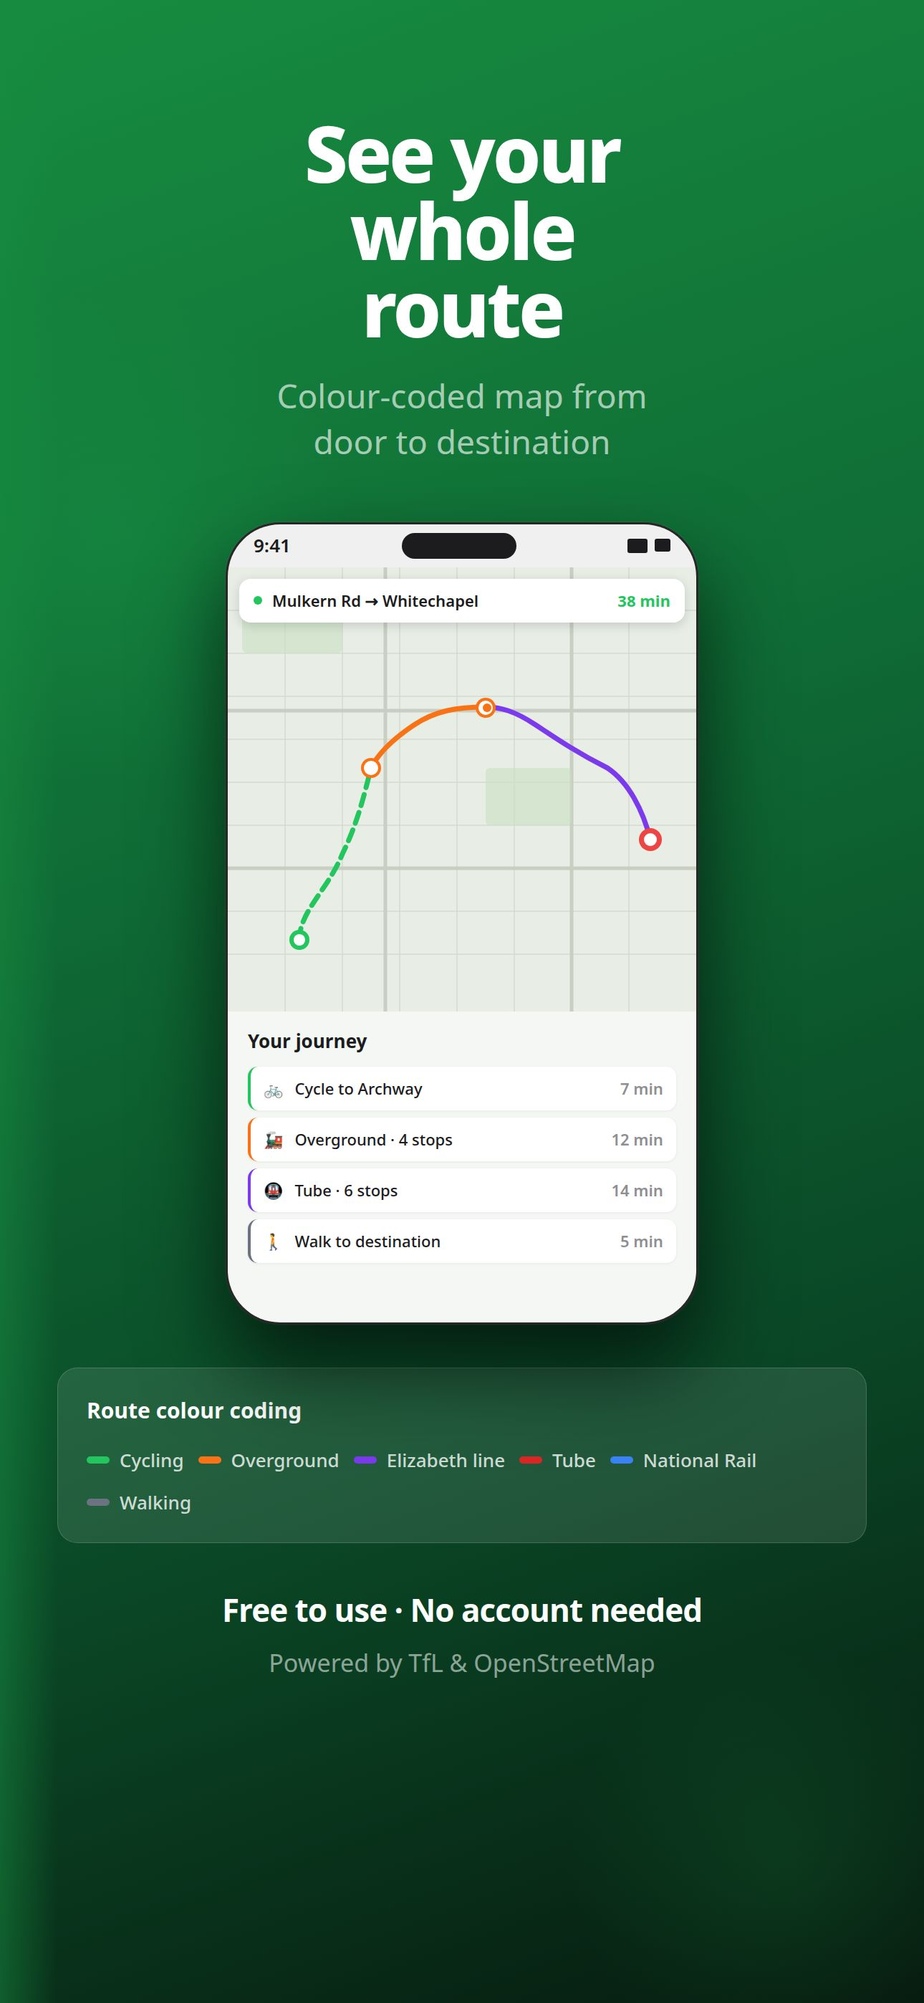
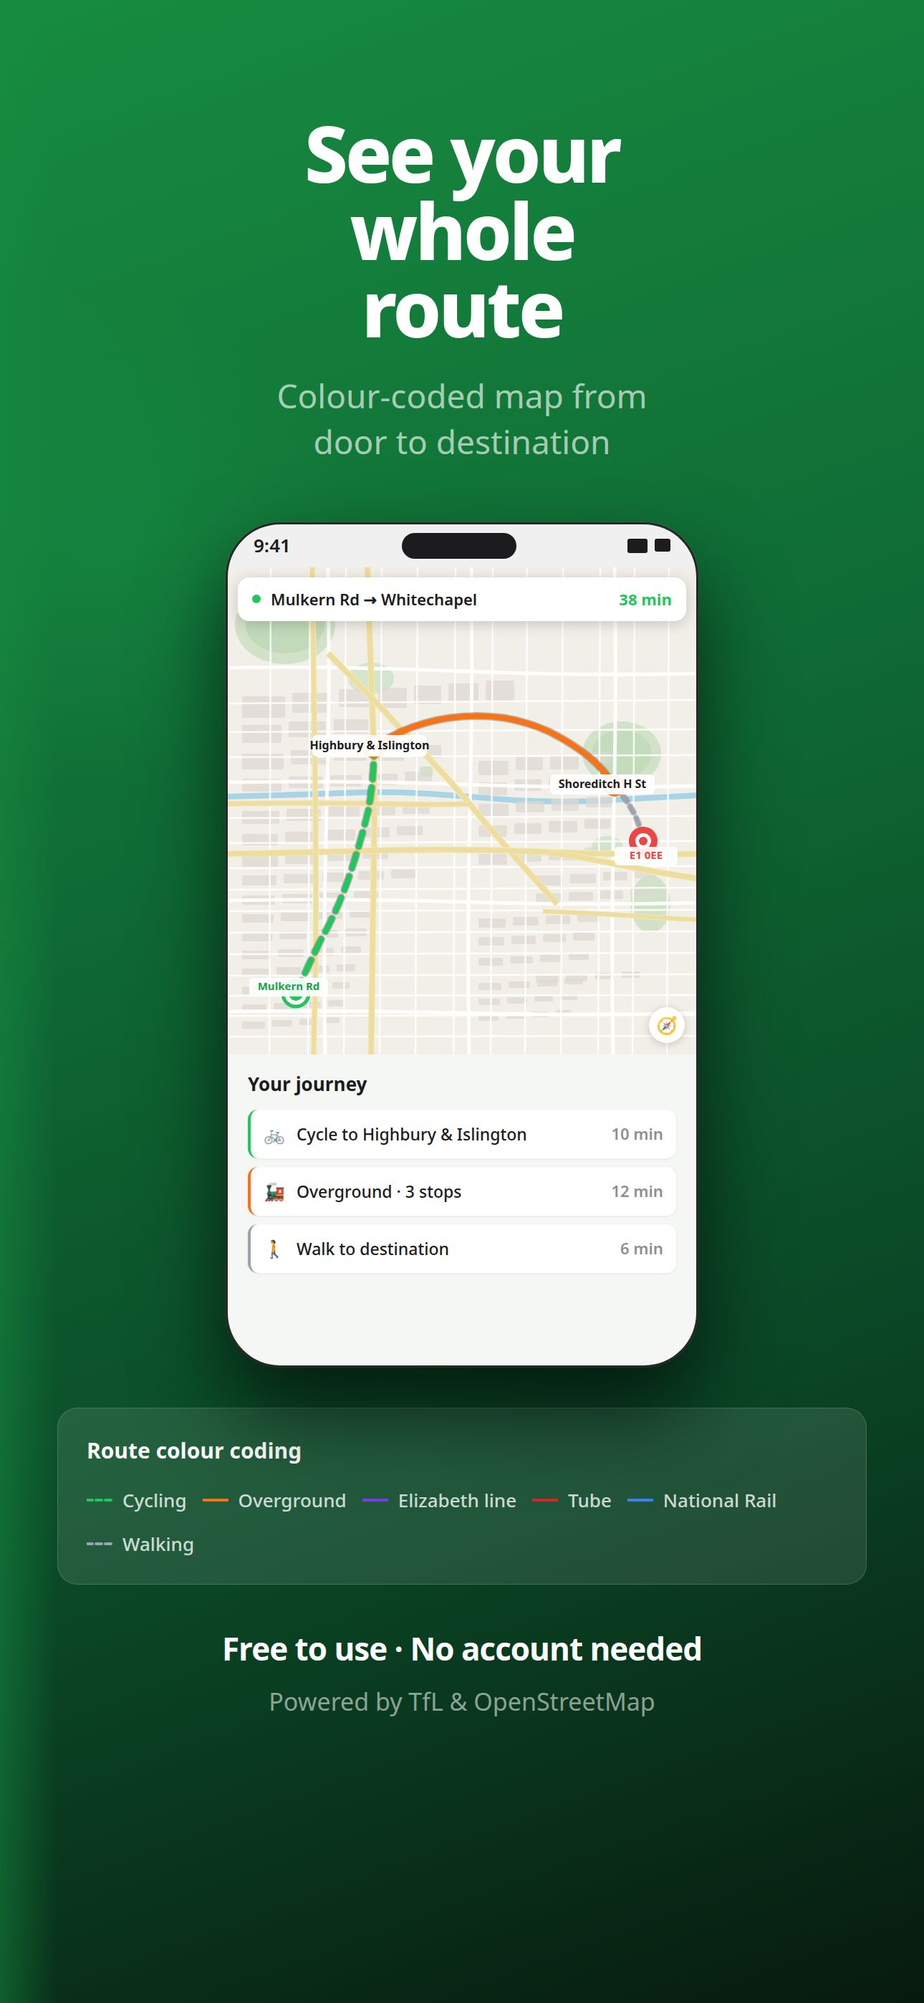
Add a realistic map overlay to the journey screenshot
Update Screenshot3.tsx to replace the simulated map grid with a detailed SVG of London streets, parks, and waterways, overlaying the public transport route. Also updates the metadata title for this screenshot.

Replit-Commit-Author: Agent
Replit-Commit-Session-Id: 356e8f4e-18b7-42f0-8686-f8393e744dbd
Replit-Commit-Checkpoint-Type: full_checkpoint
Replit-Commit-Event-Id: 51e91983-827b-450a-aeb3-30c5ff5462e7
Replit-Commit-Screenshot-Url: https://storage.googleapis.com/screenshot-production-us-central1/e2315b2b-6dc2-4ca1-8488-6559592e17c8/356e8f4e-18b7-42f0-8686-f8393e744dbd/2QzkVVV
Replit-Helium-Checkpoint-Created: true

diff --git a/artifacts/mockup-sandbox/src/components/mockups/Screenshot3.tsx b/artifacts/mockup-sandbox/src/components/mockups/Screenshot3.tsx
@@ -13,15 +13,10 @@ export default function Screenshot3() {
         position: "relative",
       }}
     >
-      {/* Ambient glow */}
+      {/* Ambient glows */}
       <div style={{
         position: "absolute", top: 400, left: -200, width: 700, height: 700,
         background: "radial-gradient(circle, rgba(34,197,94,0.15) 0%, transparent 70%)",
-        pointerEvents: "none",
-      }} />
-      <div style={{
-        position: "absolute", bottom: -100, right: -100, width: 600, height: 600,
-        background: "radial-gradient(circle, rgba(34,197,94,0.12) 0%, transparent 70%)",
         pointerEvents: "none",
       }} />
 
@@ -35,11 +30,11 @@ export default function Screenshot3() {
         </div>
       </div>
 
-      {/* Phone mockup — map view */}
+      {/* Phone mockup */}
       <div style={{
         marginTop: 80,
         width: 660,
-        height: 1120,
+        height: 1180,
         background: "#0a0a0a",
         borderRadius: 76,
         border: "3px solid rgba(255,255,255,0.12)",
@@ -47,12 +42,14 @@ export default function Screenshot3() {
         boxShadow: "0 60px 120px rgba(0,0,0,0.65), 0 0 0 1px rgba(255,255,255,0.06)",
         flexShrink: 0,
         position: "relative",
+        display: "flex",
+        flexDirection: "column",
       }}>
         {/* Status bar */}
         <div style={{
-          height: 60, background: "#f0f0f0",
+          height: 60, background: "#f0f0f0", flexShrink: 0,
           display: "flex", alignItems: "center", justifyContent: "space-between",
-          padding: "0 36px", zIndex: 10, position: "relative",
+          padding: "0 36px",
         }}>
           <span style={{ fontSize: 26, fontWeight: 600, color: "#1c1c1e" }}>9:41</span>
           <div style={{ width: 160, height: 36, background: "#1c1c1e", borderRadius: 20 }} />
@@ -62,98 +59,256 @@ export default function Screenshot3() {
           </div>
         </div>
 
-        {/* Map background */}
-        <div style={{ position: "relative", height: 620, overflow: "hidden", background: "#e8ede6" }}>
-          {/* Simulated map grid */}
-          <svg width="660" height="620" style={{ position: "absolute", top: 0, left: 0 }}>
-            {/* Road grid */}
-            {[60, 120, 180, 240, 300, 360, 420, 480, 540].map(y => (
-              <line key={`h${y}`} x1="0" y1={y} x2="660" y2={y} stroke="#d4dace" strokeWidth="1.5" />
+        {/* Map — realistic London street map SVG */}
+        <div style={{ position: "relative", height: 680, flexShrink: 0, overflow: "hidden" }}>
+          <svg
+            width="660" height="680" viewBox="0 0 660 680"
+            style={{ display: "block" }}
+          >
+            {/* Map background */}
+            <rect width="660" height="680" fill="#f2efe9" />
+
+            {/* --- Parks / green areas --- */}
+            {/* Finsbury Park (top-left area) */}
+            <ellipse cx="80" cy="80" rx="70" ry="55" fill="#c8dfc0" opacity="0.8" />
+            <ellipse cx="80" cy="80" rx="55" ry="40" fill="#b8d4b0" opacity="0.6" />
+            {/* Highbury Fields */}
+            <ellipse cx="200" cy="155" rx="32" ry="22" fill="#c8dfc0" opacity="0.7" />
+            {/* Victoria Park (right side) */}
+            <ellipse cx="550" cy="260" rx="55" ry="45" fill="#c8dfc0" opacity="0.8" />
+            <ellipse cx="550" cy="260" rx="42" ry="33" fill="#b8d4b0" opacity="0.5" />
+            {/* Islington Green */}
+            <rect x="268" y="278" width="18" height="14" rx="4" fill="#c8dfc0" opacity="0.8" />
+            {/* Bethnal Green gardens */}
+            <ellipse cx="530" cy="390" rx="22" ry="15" fill="#c8dfc0" opacity="0.7" />
+            {/* Mile End Park */}
+            <ellipse cx="590" cy="470" rx="28" ry="40" fill="#c8dfc0" opacity="0.8" />
+
+            {/* --- Water --- */}
+            {/* Regents Canal */}
+            <path d="M 0 320 Q 80 318 160 315 Q 220 312 280 316 Q 340 320 400 325 Q 460 328 520 326 Q 580 322 660 318" stroke="#a8d4e8" strokeWidth="8" fill="none" strokeLinecap="round"/>
+
+            {/* --- Building blocks (simplified urban texture) --- */}
+            {[
+              [20,180,60,30],[90,175,50,28],[155,170,45,25],[20,220,55,25],[85,215,52,22],
+              [148,212,48,20],[210,168,40,28],[260,165,38,26],[308,162,42,25],[360,158,40,28],
+              [20,260,58,22],[88,255,50,20],[148,252,46,18],[204,250,42,20],[258,248,40,18],
+              [20,295,55,18],[85,292,48,16],[143,290,44,16],[197,288,40,16],[247,285,38,16],
+              [350,270,42,20],[402,265,38,18],[450,262,40,20],[500,258,35,16],
+              [350,300,40,18],[400,296,38,16],[448,293,40,17],[498,290,34,15],
+              [350,330,42,18],[402,326,40,16],[452,323,38,17],[500,320,36,15],
+              [350,360,40,16],[400,357,38,15],[448,354,40,16],[498,351,36,14],
+              [20,340,52,18],[82,337,48,17],[140,334,44,16],[194,331,40,15],[244,329,38,15],
+              [20,372,50,16],[80,369,46,15],[136,366,42,15],[188,363,38,14],[236,361,36,13],
+              [20,402,50,16],[80,399,46,15],[136,396,42,14],[188,393,36,14],
+              [350,400,40,15],[400,397,38,14],[448,394,40,15],[498,391,36,13],
+              [430,430,38,14],[478,428,36,13],[524,425,34,12],[568,422,30,12],
+              [430,455,36,13],[476,453,34,12],[520,451,32,12],[562,448,30,11],
+              [20,430,48,14],[78,428,44,13],[132,426,40,13],[182,424,36,12],[228,422,34,12],
+              [20,458,46,13],[76,456,42,13],[128,454,38,12],[176,452,34,12],
+              [20,484,44,12],[74,482,40,12],[124,480,36,11],[170,478,32,11],
+              [350,490,38,13],[398,488,36,12],[444,486,34,12],[488,484,32,11],
+              [350,516,36,12],[396,514,34,12],[440,512,32,11],[482,510,30,11],
+              [20,510,42,12],[72,508,38,11],[120,506,34,11],[164,504,30,11],
+              [20,535,40,12],[70,533,36,11],[116,531,32,11],[158,529,28,10],
+              [20,560,38,11],[68,558,34,11],[112,556,30,10],[152,554,26,10],
+              [350,545,34,11],[394,543,32,10],[436,541,30,10],[476,539,28,9],
+              [430,570,32,10],[472,568,30,10],[512,566,28,9],[550,564,26,9],
+              [20,585,36,11],[66,583,32,10],[108,581,28,10],[146,579,24,9],
+              [20,610,34,10],[64,608,30,10],[104,606,26,9],[140,604,22,9],
+              [350,580,32,10],[392,578,30,9],[432,576,28,9],[470,574,26,8],
+              [350,602,30,9],[390,600,28,9],[428,598,26,8],[464,596,24,8],
+              [20,634,32,10],[62,632,28,9],[100,630,24,9],[134,628,22,8],
+              [350,624,28,9],[388,622,26,8],[424,620,24,8],[458,618,22,8],
+            ].map(([x, y, w, h], i) => (
+              <rect key={i} x={x} y={y} width={w} height={h} rx="2" fill="#ddd9d0" opacity="0.7" />
             ))}
-            {[80, 160, 240, 320, 400, 480, 560].map(x => (
-              <line key={`v${x}`} x1={x} y1="0" x2={x} y2="620" stroke="#d4dace" strokeWidth="1.5" />
+
+            {/* --- Road network --- */}
+            {/* Minor streets (lightest, thinnest) */}
+            {[
+              "M 0 190 L 660 185", "M 0 230 L 660 226", "M 0 265 L 660 262",
+              "M 0 350 L 660 347", "M 0 385 L 660 382", "M 0 420 L 660 417",
+              "M 0 450 L 660 447", "M 0 480 L 660 478", "M 0 510 L 660 508",
+              "M 0 540 L 660 538", "M 0 570 L 660 568", "M 0 598 L 660 597",
+              "M 0 626 L 660 625", "M 0 655 L 660 654",
+              "M 60 0 L 58 680", "M 115 0 L 112 680", "M 165 0 L 162 680",
+              "M 215 0 L 212 680", "M 265 0 L 262 680", "M 318 0 L 315 680",
+              "M 370 0 L 367 680", "M 418 0 L 415 680", "M 468 0 L 465 680",
+              "M 520 0 L 517 680", "M 568 0 L 565 680", "M 616 0 L 613 680",
+            ].map((d, i) => (
+              <path key={i} d={d} stroke="white" strokeWidth="2.5" fill="none" opacity="0.85" />
             ))}
-            {/* Major roads */}
-            <line x1="0" y1="200" x2="660" y2="200" stroke="#c8cfc2" strokeWidth="5" />
-            <line x1="0" y1="420" x2="660" y2="420" stroke="#c8cfc2" strokeWidth="5" />
-            <line x1="220" y1="0" x2="220" y2="620" stroke="#c8cfc2" strokeWidth="5" />
-            <line x1="480" y1="0" x2="480" y2="620" stroke="#c8cfc2" strokeWidth="5" />
-            {/* Green areas */}
-            <rect x="20" y="20" width="140" height="100" rx="8" fill="#c8dfc2" opacity="0.6" />
-            <rect x="360" y="280" width="120" height="80" rx="6" fill="#c8dfc2" opacity="0.6" />
-            {/* Route — cycling (green dashed) */}
-            <path d="M 100 520 C 100 480 140 450 160 400 C 180 360 190 320 200 280" stroke="#22c55e" strokeWidth="7" strokeDasharray="16 10" strokeLinecap="round" fill="none" />
-            {/* Route — overground (orange solid) */}
-            <path d="M 200 280 C 210 260 230 240 260 220 C 290 200 320 195 360 195" stroke="#f97316" strokeWidth="7" strokeLinecap="round" fill="none" />
-            {/* Route — tube (purple) */}
-            <path d="M 360 195 C 380 195 400 200 430 220 C 460 240 490 260 530 280 C 560 300 580 340 590 380" stroke="#7c3aed" strokeWidth="7" strokeLinecap="round" fill="none" />
-            {/* Start marker */}
-            <circle cx="100" cy="520" r="14" fill="#22c55e" />
-            <circle cx="100" cy="520" r="8" fill="white" />
-            {/* Station dots */}
-            <circle cx="200" cy="280" r="12" fill="white" stroke="#f97316" strokeWidth="4" />
-            <circle cx="360" cy="196" r="12" fill="white" stroke="#f97316" strokeWidth="4" />
-            <circle cx="362" cy="196" r="6" fill="#f97316" />
-            {/* End marker */}
-            <circle cx="590" cy="380" r="16" fill="#ef4444" />
-            <circle cx="590" cy="380" r="9" fill="white" />
+
+            {/* Secondary roads */}
+            {[
+              "M 0 140 Q 165 138 330 145 Q 495 152 660 148",
+              "M 0 300 Q 165 297 330 303 Q 495 309 660 305",
+              "M 0 465 Q 165 462 330 467 Q 495 472 660 468",
+              "M 0 620 Q 165 618 330 622 Q 495 626 660 622",
+              "M 140 0 Q 143 170 138 340 Q 133 510 136 680",
+              "M 340 0 Q 342 170 338 340 Q 334 510 337 680",
+              "M 540 0 Q 543 170 539 340 Q 535 510 538 680",
+            ].map((d, i) => (
+              <path key={i} d={d} stroke="white" strokeWidth="5" fill="none" opacity="0.9" />
+            ))}
+
+            {/* Major roads (A-roads) — cream/yellow */}
+            {/* Holloway Road / Highbury — runs roughly N→S left-centre */}
+            <path d="M 195 0 Q 198 100 202 200 Q 206 300 204 400 Q 202 500 200 680" stroke="#f5e9b0" strokeWidth="9" fill="none" />
+            <path d="M 195 0 Q 198 100 202 200 Q 206 300 204 400 Q 202 500 200 680" stroke="#eedda0" strokeWidth="7" fill="none" />
+            {/* Essex Road / Balls Pond Road — diagonal NW→SE */}
+            <path d="M 140 120 Q 200 180 255 240 Q 310 295 358 355 Q 410 415 460 470" stroke="#f5e9b0" strokeWidth="9" fill="none" />
+            <path d="M 140 120 Q 200 180 255 240 Q 310 295 358 355 Q 410 415 460 470" stroke="#eedda0" strokeWidth="7" fill="none" />
+            {/* Old Street / City Road */}
+            <path d="M 0 400 Q 110 398 220 395 Q 330 392 440 397 Q 550 402 660 400" stroke="#f5e9b0" strokeWidth="9" fill="none" />
+            <path d="M 0 400 Q 110 398 220 395 Q 330 392 440 397 Q 550 402 660 400" stroke="#eedda0" strokeWidth="7" fill="none" />
+            {/* Bethnal Green Road */}
+            <path d="M 440 397 Q 500 405 560 418 Q 610 428 660 435" stroke="#f5e9b0" strokeWidth="9" fill="none" />
+            <path d="M 440 397 Q 500 405 560 418 Q 610 428 660 435" stroke="#eedda0" strokeWidth="7" fill="none" />
+            {/* Pentonville Road / Angel */}
+            <path d="M 0 330 Q 110 328 220 330 Q 290 332 340 330" stroke="#f5e9b0" strokeWidth="8" fill="none" />
+            <path d="M 0 330 Q 110 328 220 330 Q 290 332 340 330" stroke="#eedda0" strokeWidth="6" fill="none" />
+            {/* Caledonian Road */}
+            <path d="M 118 0 Q 120 150 122 300 Q 124 450 122 600 Q 120 640 120 680" stroke="#f5e9b0" strokeWidth="8" fill="none" />
+            <path d="M 118 0 Q 120 150 122 300 Q 124 450 122 600 Q 120 640 120 680" stroke="#eedda0" strokeWidth="6" fill="none" />
+            {/* Roman Road */}
+            <path d="M 440 480 Q 500 482 560 486 Q 610 490 660 492" stroke="#f5e9b0" strokeWidth="7" fill="none" />
+            <path d="M 440 480 Q 500 482 560 486 Q 610 490 660 492" stroke="#eedda0" strokeWidth="5.5" fill="none" />
+
+            {/* --- Journey route overlay --- */}
+            {/* Cycling leg: N19/Mulkern Rd → Highbury & Islington (green dashed) */}
+            <path
+              d="M 95 595 Q 110 560 130 520 Q 155 475 170 430 Q 185 385 196 340 Q 204 295 204 250"
+              stroke="rgba(0,0,0,0.25)" strokeWidth="11" fill="none" strokeLinecap="round" strokeDasharray="20 12"
+            />
+            <path
+              d="M 95 595 Q 110 560 130 520 Q 155 475 170 430 Q 185 385 196 340 Q 204 295 204 250"
+              stroke="#22c55e" strokeWidth="8" fill="none" strokeLinecap="round" strokeDasharray="20 12"
+            />
+
+            {/* Overground leg: Highbury & Islington → Shoreditch/Whitechapel (orange solid) */}
+            <path
+              d="M 204 250 Q 220 240 240 230 Q 275 215 310 210 Q 348 205 385 210 Q 420 216 450 230 Q 480 245 505 265 Q 525 282 540 305"
+              stroke="rgba(0,0,0,0.25)" strokeWidth="11" fill="none" strokeLinecap="round"
+            />
+            <path
+              d="M 204 250 Q 220 240 240 230 Q 275 215 310 210 Q 348 205 385 210 Q 420 216 450 230 Q 480 245 505 265 Q 525 282 540 305"
+              stroke="#f97316" strokeWidth="8" fill="none" strokeLinecap="round"
+            />
+
+            {/* Walking final leg: Whitechapel area → destination (grey dashed) */}
+            <path
+              d="M 540 305 Q 555 320 568 345 Q 576 362 580 382"
+              stroke="rgba(0,0,0,0.20)" strokeWidth="9" fill="none" strokeLinecap="round" strokeDasharray="10 8"
+            />
+            <path
+              d="M 540 305 Q 555 320 568 345 Q 576 362 580 382"
+              stroke="#9ca3af" strokeWidth="6" fill="none" strokeLinecap="round" strokeDasharray="10 8"
+            />
+
+            {/* Station markers */}
+            {/* Highbury & Islington */}
+            <circle cx="204" cy="250" r="14" fill="white" stroke="#f97316" strokeWidth="4.5" />
+            <circle cx="204" cy="250" r="7" fill="#f97316" />
+            {/* Shoreditch High St */}
+            <circle cx="540" cy="305" r="13" fill="white" stroke="#f97316" strokeWidth="4" />
+            <circle cx="540" cy="305" r="6.5" fill="#f97316" />
+
+            {/* Start marker — Mulkern Road */}
+            <circle cx="95" cy="595" r="18" fill="white" stroke="#22c55e" strokeWidth="5" />
+            <circle cx="95" cy="595" r="10" fill="#22c55e" />
+
+            {/* Destination marker — E1 */}
+            <circle cx="580" cy="382" r="20" fill="#ef4444" />
+            <circle cx="580" cy="382" r="11" fill="white" />
+            <circle cx="580" cy="382" r="6" fill="#ef4444" />
+
+            {/* Station labels */}
+            <rect x="118" y="234" width="160" height="30" rx="6" fill="white" opacity="0.92" />
+            <text x="198" y="254" textAnchor="middle" fontSize="16" fontWeight="700" fill="#1c1c1e" fontFamily="-apple-system, sans-serif">Highbury & Islington</text>
+
+            <rect x="450" y="289" width="146" height="28" rx="6" fill="white" opacity="0.92" />
+            <text x="523" y="308" textAnchor="middle" fontSize="16" fontWeight="700" fill="#1c1c1e" fontFamily="-apple-system, sans-serif">Shoreditch H St</text>
+
+            {/* Start label */}
+            <rect x="30" y="573" width="110" height="26" rx="6" fill="white" opacity="0.90" />
+            <text x="85" y="590" textAnchor="middle" fontSize="15" fontWeight="700" fill="#16a34a" fontFamily="-apple-system, sans-serif">Mulkern Rd</text>
+
+            {/* Destination label */}
+            <rect x="540" y="390" width="88" height="26" rx="6" fill="white" opacity="0.90" />
+            <text x="584" y="407" textAnchor="middle" fontSize="15" fontWeight="700" fill="#ef4444" fontFamily="-apple-system, sans-serif">E1 0EE</text>
           </svg>
 
-          {/* Map overlay top pill */}
+          {/* Map top pill */}
           <div style={{
-            position: "absolute", top: 16, left: 16, right: 16,
+            position: "absolute", top: 14, left: 14, right: 14,
             background: "white", borderRadius: 16, padding: "14px 20px",
             display: "flex", alignItems: "center", gap: 14,
-            boxShadow: "0 4px 16px rgba(0,0,0,0.15)",
+            boxShadow: "0 4px 20px rgba(0,0,0,0.18)",
           }}>
             <div style={{ width: 12, height: 12, borderRadius: "50%", background: "#22c55e", flexShrink: 0 }} />
             <span style={{ fontSize: 22, fontWeight: 600, color: "#1c1c1e", flex: 1 }}>Mulkern Rd → Whitechapel</span>
             <span style={{ fontSize: 22, fontWeight: 700, color: "#22c55e" }}>38 min</span>
           </div>
+
+          {/* Compass */}
+          <div style={{
+            position: "absolute", bottom: 16, right: 16,
+            width: 50, height: 50, background: "white", borderRadius: "50%",
+            display: "flex", alignItems: "center", justifyContent: "center",
+            boxShadow: "0 2px 12px rgba(0,0,0,0.18)", fontSize: 24,
+          }}>
+            🧭
+          </div>
         </div>
 
         {/* Journey detail panel */}
-        <div style={{ background: "#f5f7f5", padding: "22px 28px", height: "calc(100% - 680px)", overflow: "hidden" }}>
+        <div style={{ background: "#f5f7f5", padding: "22px 28px", flex: 1, overflow: "hidden", position: "relative" }}>
           <div style={{ fontSize: 26, fontWeight: 700, color: "#1c1c1e", marginBottom: 16 }}>Your journey</div>
           {[
-            { color: "#22c55e", icon: "🚲", label: "Cycle to Archway", time: "7 min", dotColor: "#22c55e" },
-            { color: "#f97316", icon: "🚂", label: "Overground · 4 stops", time: "12 min", dotColor: "#f97316" },
-            { color: "#7c3aed", icon: "🚇", label: "Tube · 6 stops", time: "14 min", dotColor: "#7c3aed" },
-            { color: "#22c55e", icon: "🚶", label: "Walk to destination", time: "5 min", dotColor: "#6b7280" },
-          ].map(({ color, icon, label, time, dotColor }, i) => (
+            { borderColor: "#22c55e", icon: "🚲", label: "Cycle to Highbury & Islington", time: "10 min" },
+            { borderColor: "#f97316", icon: "🚂", label: "Overground · 3 stops", time: "12 min" },
+            { borderColor: "#9ca3af", icon: "🚶", label: "Walk to destination", time: "6 min" },
+          ].map(({ borderColor, icon, label, time }, i) => (
             <div key={i} style={{
               display: "flex", alignItems: "center", gap: 16,
-              background: "white", borderRadius: 14, padding: "14px 18px",
-              marginBottom: 10, boxShadow: "0 1px 4px rgba(0,0,0,0.06)",
-              borderLeft: `4px solid ${dotColor}`,
+              background: "white", borderRadius: 14, padding: "16px 18px",
+              marginBottom: 12, boxShadow: "0 1px 4px rgba(0,0,0,0.06)",
+              borderLeft: `4px solid ${borderColor}`,
             }}>
-              <span style={{ fontSize: 22, flexShrink: 0 }}>{icon}</span>
-              <span style={{ flex: 1, fontSize: 22, fontWeight: 500, color: "#1c1c1e" }}>{label}</span>
+              <span style={{ fontSize: 24, flexShrink: 0 }}>{icon}</span>
+              <span style={{ flex: 1, fontSize: 23, fontWeight: 500, color: "#1c1c1e" }}>{label}</span>
               <span style={{ fontSize: 22, fontWeight: 600, color: "#8e8e93" }}>{time}</span>
             </div>
           ))}
         </div>
       </div>
 
-      {/* Line legend */}
-      <div style={{ marginTop: 60, padding: "0 80px", width: "100%", boxSizing: "border-box" }}>
+      {/* Legend */}
+      <div style={{ marginTop: 56, padding: "0 80px", width: "100%", boxSizing: "border-box" }}>
         <div style={{
           background: "rgba(255,255,255,0.10)",
           border: "1.5px solid rgba(255,255,255,0.16)",
           borderRadius: 28, padding: "36px 40px",
         }}>
           <div style={{ fontSize: 30, fontWeight: 700, color: "white", marginBottom: 28 }}>Route colour coding</div>
-          <div style={{ display: "flex", flexWrap: "wrap", gap: 20 }}>
+          <div style={{ display: "flex", flexWrap: "wrap", gap: 22 }}>
             {[
-              { color: "#22c55e", label: "Cycling" },
+              { color: "#22c55e", label: "Cycling", dashed: true },
               { color: "#f97316", label: "Overground" },
               { color: "#7c3aed", label: "Elizabeth line" },
               { color: "#dc2626", label: "Tube" },
               { color: "#3b82f6", label: "National Rail" },
-              { color: "#6b7280", label: "Walking" },
-            ].map(({ color, label }, i) => (
+              { color: "#9ca3af", label: "Walking", dashed: true },
+            ].map(({ color, label, dashed }, i) => (
               <div key={i} style={{ display: "flex", alignItems: "center", gap: 14 }}>
-                <div style={{ width: 32, height: 10, background: color, borderRadius: 5 }} />
+                <svg width="36" height="10">
+                  {dashed
+                    ? <line x1="0" y1="5" x2="36" y2="5" stroke={color} strokeWidth="4" strokeDasharray="8 5" strokeLinecap="round" />
+                    : <line x1="0" y1="5" x2="36" y2="5" stroke={color} strokeWidth="4" strokeLinecap="round" />
+                  }
+                </svg>
                 <span style={{ fontSize: 26, color: "rgba(255,255,255,0.80)", fontWeight: 500 }}>{label}</span>
               </div>
             ))}
@@ -162,7 +317,7 @@ export default function Screenshot3() {
       </div>
 
       {/* Bottom tagline */}
-      <div style={{ marginTop: 60, textAlign: "center", padding: "0 80px" }}>
+      <div style={{ marginTop: 56, textAlign: "center", padding: "0 80px" }}>
         <div style={{ fontSize: 44, fontWeight: 700, color: "white", letterSpacing: -1 }}>
           Free to use · No account needed
         </div>
